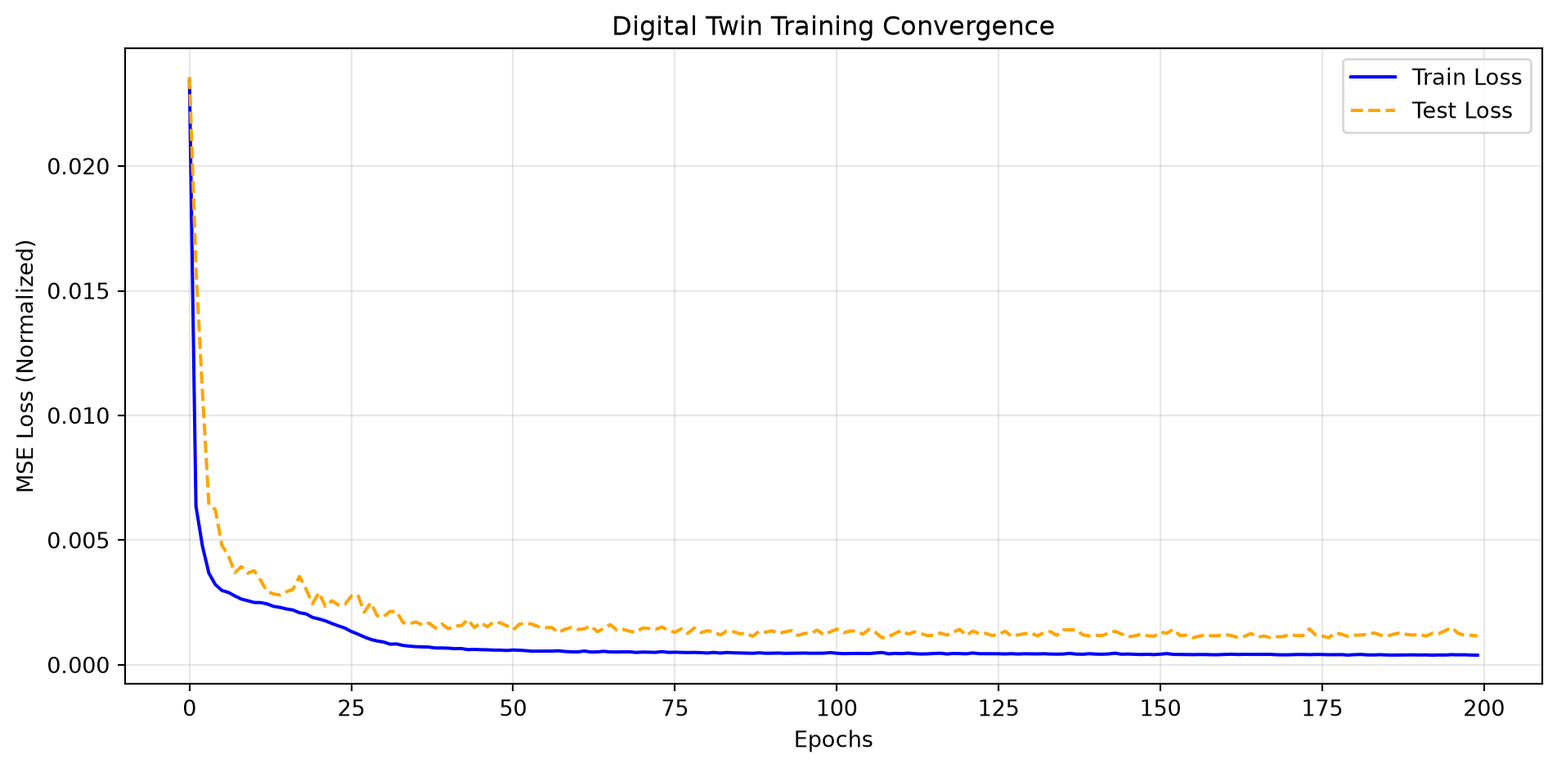
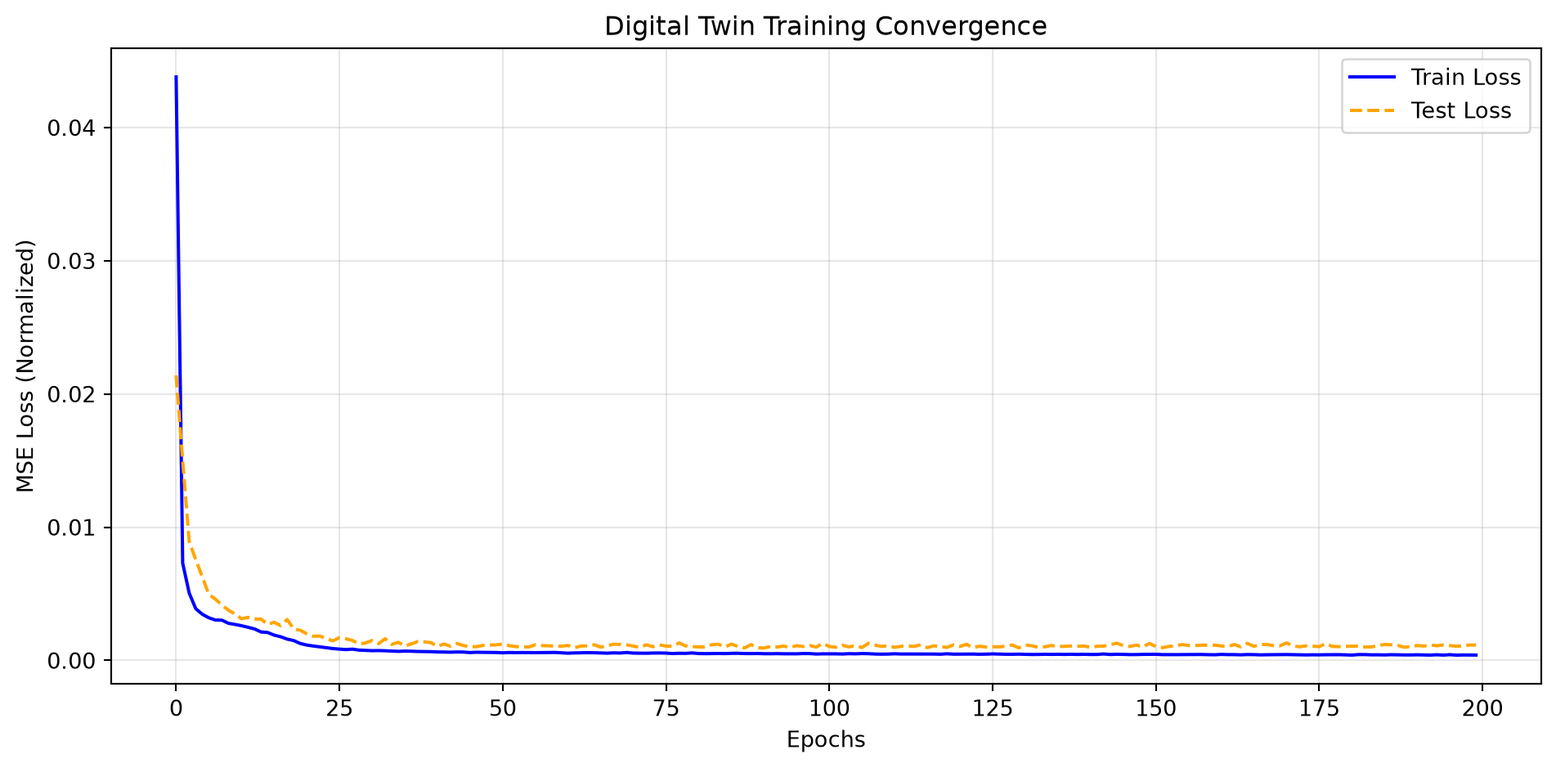
Built site for gh-pages

diff --git a/ai-ml/optitherm.html b/ai-ml/optitherm.html
@@ -492,7 +492,7 @@ os.environ['KAGGLE_KEY'] = "your_api_key"</code></pre>
 </div>
 </div>
 <hr>
-<div id="24c98e17" class="cell" data-execution_count="1">
+<div id="6e697c57" class="cell" data-execution_count="1">
 <div class="code-copy-outer-scaffold"><div class="sourceCode cell-code" id="cb2"><pre class="sourceCode python code-with-copy"><code class="sourceCode python"><span id="cb2-1"><a href="#cb2-1" aria-hidden="true" tabindex="-1"></a><span class="im">import</span> os</span>
 <span id="cb2-2"><a href="#cb2-2" aria-hidden="true" tabindex="-1"></a><span class="im">import</span> pandas <span class="im">as</span> pd</span>
 <span id="cb2-3"><a href="#cb2-3" aria-hidden="true" tabindex="-1"></a></span>
@@ -593,7 +593,7 @@ operable program or batch file.</code></pre>
 </section>
 <section id="stage-1-data-engineering-and-consolidation-1" class="level2">
 <h2 class="anchored" data-anchor-id="stage-1-data-engineering-and-consolidation-1">Stage 1: Data Engineering and Consolidation</h2>
-<div id="afdd6926" class="cell" data-execution_count="2">
+<div id="06afeb5b" class="cell" data-execution_count="2">
 <div class="code-copy-outer-scaffold"><div class="sourceCode cell-code" id="cb5"><pre class="sourceCode python code-with-copy"><code class="sourceCode python"><span id="cb5-1"><a href="#cb5-1" aria-hidden="true" tabindex="-1"></a><span class="co"># Parameters for the digital twin</span></span>
 <span id="cb5-2"><a href="#cb5-2" aria-hidden="true" tabindex="-1"></a>building_id <span class="op">=</span> <span class="st">"Panther_office_Graham"</span></span>
 <span id="cb5-3"><a href="#cb5-3" aria-hidden="true" tabindex="-1"></a>site_id <span class="op">=</span> <span class="st">"Panther"</span></span>
@@ -658,7 +658,7 @@ dtype: int64</code></pre>
 <section id="next-step" class="level4">
 <h4 class="anchored" data-anchor-id="next-step">Next Step</h4>
 <p>Before deciding whether to impute or discard these observations, a visual temporal analysis is required to identify the distribution and duration of the electricity meter outages.</p>
-<div id="8cdc79d6" class="cell" data-execution_count="3">
+<div id="199420d7" class="cell" data-execution_count="3">
 <div class="code-copy-outer-scaffold"><div class="sourceCode cell-code" id="cb7"><pre class="sourceCode python code-with-copy"><code class="sourceCode python"><span id="cb7-1"><a href="#cb7-1" aria-hidden="true" tabindex="-1"></a><span class="im">import</span> matplotlib.pyplot <span class="im">as</span> plt</span>
 <span id="cb7-2"><a href="#cb7-2" aria-hidden="true" tabindex="-1"></a></span>
 <span id="cb7-3"><a href="#cb7-3" aria-hidden="true" tabindex="-1"></a><span class="bu">print</span>(<span class="st">"1. Cleaning exogenous variables (weather data)..."</span>)</span>
@@ -714,7 +714,7 @@ dtype: int64
 <p>Interestingly, the prolonged sensor outage observed during the summer of 2017 was retained and used as a natural temporal boundary between the training and testing datasets. This approach avoids arbitrary data splitting strategies and ensures a realistic evaluation scenario, where the model is trained on past observations and tested on future unseen conditions.</p>
 <p><strong>Methodological justification:</strong></p>
 <p>The thermal dynamics of a building are learned from temporal sequences using recurrent neural networks (RNN/LSTM) with sliding windows. Therefore, preserving the chronological structure of the data is essential. By using the sensor outage as a natural separation point, the model evaluation better reflects a real-world deployment scenario, where future energy consumption must be predicted based solely on historical information.</p>
-<div id="b4e14318" class="cell" data-execution_count="4">
+<div id="e82dd812" class="cell" data-execution_count="4">
 <div class="code-copy-outer-scaffold"><div class="sourceCode cell-code" id="cb9"><pre class="sourceCode python code-with-copy"><code class="sourceCode python"><span id="cb9-1"><a href="#cb9-1" aria-hidden="true" tabindex="-1"></a><span class="bu">print</span>(<span class="st">"1. Removing the initial data gap (early 2016)..."</span>)</span>
 <span id="cb9-2"><a href="#cb9-2" aria-hidden="true" tabindex="-1"></a></span>
 <span id="cb9-3"><a href="#cb9-3" aria-hidden="true" tabindex="-1"></a><span class="co"># Remove the period with insufficient data coverage</span></span>
@@ -782,7 +782,7 @@ dtype: int64
 <p><strong><em>Why use both sine and cosine components?</em></strong></p>
 <p>Using only one trigonometric function introduces ambiguity due to symmetry. For example, if only the sine component is used, midnight (<span class="math inline">\(\sin(0)=0\)</span>) and noon (<span class="math inline">\(\sin(\pi)=0\)</span>) would receive the same value, preventing the model from distinguishing between day and night. By combining the cosine component (<span class="math inline">\(X\)</span>-axis) and sine component (<span class="math inline">\(Y\)</span>-axis), each timestamp is uniquely represented in a two-dimensional periodic space. Consequently, the Euclidean distance between 23:00 and 01:00 is correctly interpreted as small by the neural network.</p>
 <p>The following code adds these temporal coordinates to the dataset:</p>
-<div id="8c5b2d3d" class="cell" data-execution_count="5">
+<div id="503a5470" class="cell" data-execution_count="5">
 <div class="code-copy-outer-scaffold"><div class="sourceCode cell-code" id="cb11"><pre class="sourceCode python code-with-copy"><code class="sourceCode python"><span id="cb11-1"><a href="#cb11-1" aria-hidden="true" tabindex="-1"></a><span class="im">import</span> numpy <span class="im">as</span> np</span>
 <span id="cb11-2"><a href="#cb11-2" aria-hidden="true" tabindex="-1"></a><span class="im">import</span> matplotlib.pyplot <span class="im">as</span> plt</span>
 <span id="cb11-3"><a href="#cb11-3" aria-hidden="true" tabindex="-1"></a></span>
@@ -838,7 +838,7 @@ dtype: int64
 <p>This analysis provides valuable insights for feature selection before training the PyTorch model. Variables with limited predictive relevance may be removed to reduce noise and decrease the dimensionality of the input tensors. However, correlation alone does not fully capture the predictive value of a feature, especially in nonlinear time-dependent systems such as building thermal dynamics.</p>
 <p><strong>Code: Correlation Heatmap</strong></p>
 <p>The following visualization uses the <code>seaborn</code> library to generate a correlation heatmap, providing an overview of the relationships between the selected features and the energy consumption target.</p>
-<div id="ffda14dd" class="cell" data-execution_count="6">
+<div id="649fca9c" class="cell" data-execution_count="6">
 <div class="code-copy-outer-scaffold"><div class="sourceCode cell-code" id="cb13"><pre class="sourceCode python code-with-copy"><code class="sourceCode python"><span id="cb13-1"><a href="#cb13-1" aria-hidden="true" tabindex="-1"></a><span class="im">import</span> seaborn <span class="im">as</span> sns</span>
 <span id="cb13-2"><a href="#cb13-2" aria-hidden="true" tabindex="-1"></a><span class="im">import</span> matplotlib.pyplot <span class="im">as</span> plt</span>
 <span id="cb13-3"><a href="#cb13-3" aria-hidden="true" tabindex="-1"></a></span>
@@ -907,7 +907,7 @@ Generating the global Heatmap...</code></pre>
 <li><code>day_cos</code>: weekly temporal encoding component.</li>
 </ul>
 <p>The objective is to determine whether past values of these variables contain predictive information about future electricity consumption over a 24-hour horizon. This analysis helps identify delayed relationships that cannot be captured by a standard Pearson correlation computed at the same timestamp.</p>
-<div id="a6cd257f" class="cell" data-execution_count="7">
+<div id="bf91813d" class="cell" data-execution_count="7">
 <div class="code-copy-outer-scaffold"><div class="sourceCode cell-code" id="cb15"><pre class="sourceCode python code-with-copy"><code class="sourceCode python"><span id="cb15-1"><a href="#cb15-1" aria-hidden="true" tabindex="-1"></a><span class="im">import</span> pandas <span class="im">as</span> pd</span>
 <span id="cb15-2"><a href="#cb15-2" aria-hidden="true" tabindex="-1"></a><span class="im">import</span> matplotlib.pyplot <span class="im">as</span> plt</span>
 <span id="cb15-3"><a href="#cb15-3" aria-hidden="true" tabindex="-1"></a></span>
@@ -1055,7 +1055,7 @@ dtype: float64</code></pre>
 <p>To predict the energy consumption at time <span class="math inline">\(t\)</span>, the model receives the previous 24 hours of system information:</p>
 <p>[ [X_{t-24}, X_{t-23}, …, X_{t-1}] ]</p>
 <p>Any sequence containing missing target values is discarded to ensure that the model is trained only on physically consistent observations.</p>
-<div id="7106c8e7" class="cell" data-execution_count="8">
+<div id="9b34370b" class="cell" data-execution_count="8">
 <div class="code-copy-outer-scaffold"><div class="sourceCode cell-code" id="cb17"><pre class="sourceCode python code-with-copy"><code class="sourceCode python"><span id="cb17-1"><a href="#cb17-1" aria-hidden="true" tabindex="-1"></a><span class="im">import</span> numpy <span class="im">as</span> np</span>
 <span id="cb17-2"><a href="#cb17-2" aria-hidden="true" tabindex="-1"></a><span class="im">import</span> pandas <span class="im">as</span> pd</span>
 <span id="cb17-3"><a href="#cb17-3" aria-hidden="true" tabindex="-1"></a><span class="im">from</span> sklearn.preprocessing <span class="im">import</span> MinMaxScaler</span>
@@ -1188,7 +1188,7 @@ Testing X : (3824, 24, 11), y: (3824, 1)</code></pre>
 </ol>
 <p>The model parameters are optimized by minimizing the Mean Squared Error (MSE) loss, which is appropriate for this continuous regression problem. The Adam optimizer is selected due to its adaptive learning rate mechanism and its robustness for training deep neural networks.</p>
 <p>The following code implements the <code>ThermalLSTM</code> architecture and initializes the training configuration.</p>
-<div id="9dd354e7" class="cell" data-execution_count="9">
+<div id="0cdfaf10" class="cell" data-execution_count="9">
 <div class="code-copy-outer-scaffold"><div class="sourceCode cell-code" id="cb19"><pre class="sourceCode python code-with-copy"><code class="sourceCode python"><span id="cb19-1"><a href="#cb19-1" aria-hidden="true" tabindex="-1"></a><span class="im">import</span> torch</span>
 <span id="cb19-2"><a href="#cb19-2" aria-hidden="true" tabindex="-1"></a><span class="im">import</span> torch.nn <span class="im">as</span> nn</span>
 <span id="cb19-3"><a href="#cb19-3" aria-hidden="true" tabindex="-1"></a><span class="im">import</span> torch.optim <span class="im">as</span> optim</span>
@@ -1271,7 +1271,7 @@ ThermalLSTM(
 -&gt; Model ready for training.</code></pre>
 </div>
 </div>
-<div id="5624ec5d" class="cell" data-execution_count="10">
+<div id="87d61414" class="cell" data-execution_count="10">
 <div class="code-copy-outer-scaffold"><div class="sourceCode cell-code" id="cb21"><pre class="sourceCode python code-with-copy"><code class="sourceCode python"><span id="cb21-1"><a href="#cb21-1" aria-hidden="true" tabindex="-1"></a><span class="im">import</span> torch</span>
 <span id="cb21-2"><a href="#cb21-2" aria-hidden="true" tabindex="-1"></a><span class="im">from</span> torch.utils.data <span class="im">import</span> TensorDataset, DataLoader</span>
 <span id="cb21-3"><a href="#cb21-3" aria-hidden="true" tabindex="-1"></a></span>
@@ -1320,7 +1320,7 @@ Creating DataLoaders...
 <p>After each epoch, the model is evaluated on the future unseen dataset separated by the natural sensor outage boundary. This chronological evaluation provides a realistic measure of the model’s generalization capability.</p></li>
 </ol>
 <p>The evolution of the training and evaluation losses is stored throughout the optimization process to monitor convergence and detect potential overfitting.</p>
-<div id="a16f8967" class="cell" data-execution_count="11">
+<div id="e1471f8c" class="cell" data-execution_count="11">
 <div class="code-copy-outer-scaffold"><div class="sourceCode cell-code" id="cb23"><pre class="sourceCode python code-with-copy"><code class="sourceCode python"><span id="cb23-1"><a href="#cb23-1" aria-hidden="true" tabindex="-1"></a><span class="im">import</span> torch</span>
 <span id="cb23-2"><a href="#cb23-2" aria-hidden="true" tabindex="-1"></a></span>
 <span id="cb23-3"><a href="#cb23-3" aria-hidden="true" tabindex="-1"></a><span class="bu">print</span>(<span class="st">"Configuring the training loop..."</span>)</span>
@@ -1400,33 +1400,33 @@ Creating DataLoaders...
 <span id="cb23-77"><a href="#cb23-77" aria-hidden="true" tabindex="-1"></a><span class="bu">print</span>(<span class="ss">f"Best test MSE: </span><span class="sc">{</span>best_test_loss<span class="sc">:.6f}</span><span class="ss">"</span>)</span></code></pre></div><button title="Copy to Clipboard" class="code-copy-button"><i class="bi"></i></button></div>
 <div class="cell-output cell-output-stdout">
 <pre><code>Configuring the training loop...
-Epoch [  1/200] | Train Loss (MSE): 0.023406 | Test Loss (MSE): 0.023575
-Epoch [ 10/200] | Train Loss (MSE): 0.002571 | Test Loss (MSE): 0.003677
-Epoch [ 20/200] | Train Loss (MSE): 0.001903 | Test Loss (MSE): 0.002451
-Epoch [ 30/200] | Train Loss (MSE): 0.000955 | Test Loss (MSE): 0.001970
-Epoch [ 40/200] | Train Loss (MSE): 0.000676 | Test Loss (MSE): 0.001639
-Epoch [ 50/200] | Train Loss (MSE): 0.000575 | Test Loss (MSE): 0.001570
-Epoch [ 60/200] | Train Loss (MSE): 0.000522 | Test Loss (MSE): 0.001495
-Epoch [ 70/200] | Train Loss (MSE): 0.000495 | Test Loss (MSE): 0.001310
-Epoch [ 80/200] | Train Loss (MSE): 0.000488 | Test Loss (MSE): 0.001291
-Epoch [ 90/200] | Train Loss (MSE): 0.000463 | Test Loss (MSE): 0.001308
-Epoch [100/200] | Train Loss (MSE): 0.000488 | Test Loss (MSE): 0.001324
-Epoch [110/200] | Train Loss (MSE): 0.000458 | Test Loss (MSE): 0.001262
-Epoch [120/200] | Train Loss (MSE): 0.000450 | Test Loss (MSE): 0.001424
-Epoch [130/200] | Train Loss (MSE): 0.000443 | Test Loss (MSE): 0.001248
-Epoch [140/200] | Train Loss (MSE): 0.000445 | Test Loss (MSE): 0.001161
-Epoch [150/200] | Train Loss (MSE): 0.000410 | Test Loss (MSE): 0.001140
-Epoch [160/200] | Train Loss (MSE): 0.000405 | Test Loss (MSE): 0.001170
-Epoch [170/200] | Train Loss (MSE): 0.000400 | Test Loss (MSE): 0.001133
-Epoch [180/200] | Train Loss (MSE): 0.000390 | Test Loss (MSE): 0.001139
-Epoch [190/200] | Train Loss (MSE): 0.000400 | Test Loss (MSE): 0.001193
-Epoch [200/200] | Train Loss (MSE): 0.000387 | Test Loss (MSE): 0.001156
+Epoch [  1/200] | Train Loss (MSE): 0.043798 | Test Loss (MSE): 0.021399
+Epoch [ 10/200] | Train Loss (MSE): 0.002704 | Test Loss (MSE): 0.003495
+Epoch [ 20/200] | Train Loss (MSE): 0.001271 | Test Loss (MSE): 0.002268
+Epoch [ 30/200] | Train Loss (MSE): 0.000756 | Test Loss (MSE): 0.001313
+Epoch [ 40/200] | Train Loss (MSE): 0.000659 | Test Loss (MSE): 0.001339
+Epoch [ 50/200] | Train Loss (MSE): 0.000597 | Test Loss (MSE): 0.001170
+Epoch [ 60/200] | Train Loss (MSE): 0.000571 | Test Loss (MSE): 0.001070
+Epoch [ 70/200] | Train Loss (MSE): 0.000594 | Test Loss (MSE): 0.001168
+Epoch [ 80/200] | Train Loss (MSE): 0.000561 | Test Loss (MSE): 0.001038
+Epoch [ 90/200] | Train Loss (MSE): 0.000520 | Test Loss (MSE): 0.000949
+Epoch [100/200] | Train Loss (MSE): 0.000495 | Test Loss (MSE): 0.001285
+Epoch [110/200] | Train Loss (MSE): 0.000477 | Test Loss (MSE): 0.001093
+Epoch [120/200] | Train Loss (MSE): 0.000471 | Test Loss (MSE): 0.001158
+Epoch [130/200] | Train Loss (MSE): 0.000471 | Test Loss (MSE): 0.000946
+Epoch [140/200] | Train Loss (MSE): 0.000461 | Test Loss (MSE): 0.001084
+Epoch [150/200] | Train Loss (MSE): 0.000456 | Test Loss (MSE): 0.001270
+Epoch [160/200] | Train Loss (MSE): 0.000425 | Test Loss (MSE): 0.001145
+Epoch [170/200] | Train Loss (MSE): 0.000440 | Test Loss (MSE): 0.001097
+Epoch [180/200] | Train Loss (MSE): 0.000420 | Test Loss (MSE): 0.001055
+Epoch [190/200] | Train Loss (MSE): 0.000412 | Test Loss (MSE): 0.001043
+Epoch [200/200] | Train Loss (MSE): 0.000403 | Test Loss (MSE): 0.001157
 
 --- Training completed successfully! ---
-Best test MSE: 0.001083</code></pre>
+Best test MSE: 0.000930</code></pre>
 </div>
 </div>
-<div id="d295c67a" class="cell" data-execution_count="12">
+<div id="3e9eaa78" class="cell" data-execution_count="12">
 <div class="code-copy-outer-scaffold"><div class="sourceCode cell-code" id="cb25"><pre class="sourceCode python code-with-copy"><code class="sourceCode python"><span id="cb25-1"><a href="#cb25-1" aria-hidden="true" tabindex="-1"></a><span class="im">import</span> matplotlib.dates <span class="im">as</span> mdates</span>
 <span id="cb25-2"><a href="#cb25-2" aria-hidden="true" tabindex="-1"></a><span class="im">import</span> matplotlib.pyplot <span class="im">as</span> plt</span>
 <span id="cb25-3"><a href="#cb25-3" aria-hidden="true" tabindex="-1"></a></span>
@@ -1482,7 +1482,7 @@ Best test MSE: 0.001083</code></pre>
 </div>
 </div>
 </div>
-<div id="322f6445" class="cell" data-execution_count="13">
+<div id="522063c7" class="cell" data-execution_count="13">
 <div class="code-copy-outer-scaffold"><div class="sourceCode cell-code" id="cb27"><pre class="sourceCode python code-with-copy"><code class="sourceCode python"><span id="cb27-1"><a href="#cb27-1" aria-hidden="true" tabindex="-1"></a>plt.figure(figsize<span class="op">=</span>(<span class="dv">10</span>, <span class="dv">5</span>))</span>
 <span id="cb27-2"><a href="#cb27-2" aria-hidden="true" tabindex="-1"></a>plt.plot(train_losses, label<span class="op">=</span><span class="st">"Train Loss"</span>, color<span class="op">=</span><span class="st">'blue'</span>)</span>
 <span id="cb27-3"><a href="#cb27-3" aria-hidden="true" tabindex="-1"></a>plt.plot(test_losses, label<span class="op">=</span><span class="st">"Test Loss"</span>, color<span class="op">=</span><span class="st">'orange'</span>, linestyle<span class="op">=</span><span class="st">'--'</span>)</span>
@@ -1501,7 +1501,7 @@ Best test MSE: 0.001083</code></pre>
 </div>
 </div>
 </div>
-<div id="b3c4a1c6" class="cell" data-execution_count="14">
+<div id="621c3ac0" class="cell" data-execution_count="14">
 <div class="code-copy-outer-scaffold"><div class="sourceCode cell-code" id="cb28"><pre class="sourceCode python code-with-copy"><code class="sourceCode python"><span id="cb28-1"><a href="#cb28-1" aria-hidden="true" tabindex="-1"></a>plt.figure(figsize<span class="op">=</span>(<span class="dv">6</span>, <span class="dv">6</span>))</span>
 <span id="cb28-2"><a href="#cb28-2" aria-hidden="true" tabindex="-1"></a>plt.scatter(actuals_rescaled, predictions_rescaled, alpha<span class="op">=</span><span class="fl">0.3</span>, color<span class="op">=</span><span class="st">'purple'</span>, s<span class="op">=</span><span class="dv">10</span>, label<span class="op">=</span><span class="st">"Predictions"</span>)</span>
 <span id="cb28-3"><a href="#cb28-3" aria-hidden="true" tabindex="-1"></a></span>

diff --git a/about.html b/about.html
@@ -7,7 +7,7 @@
 <meta name="viewport" content="width=device-width, initial-scale=1.0, user-scalable=yes">
 
 
-<title>About – Ismaël Tchinda Ngueyong | Portfolio</title>
+<title>About Me – Ismaël Tchinda Ngueyong | Portfolio</title>
 <style>
 /* Default styles provided by pandoc.
 ** See https://pandoc.org/MANUAL.html#variables-for-html for config info.
@@ -289,8 +289,17 @@ ul.task-list li input[type="checkbox"] {
 <div id="quarto-content" class="quarto-container page-columns page-rows-contents page-layout-article page-navbar">
 <!-- sidebar -->
 <!-- margin-sidebar -->
-    <div id="quarto-margin-sidebar" class="sidebar margin-sidebar zindex-bottom">
-        
+    <div id="quarto-margin-sidebar" class="sidebar margin-sidebar">
+        <nav id="TOC" role="doc-toc" class="toc-active">
+    <h2 id="toc-title">On this page</h2>
+   
+  <ul>
+  <li><a href="#hi-im-ismaël-tchinda-ngueyong" id="toc-hi-im-ismaël-tchinda-ngueyong" class="nav-link active" data-scroll-target="#hi-im-ismaël-tchinda-ngueyong">Hi, I’m Ismaël Tchinda Ngueyong</a></li>
+  <li><a href="#bridging-theory-and-production" id="toc-bridging-theory-and-production" class="nav-link" data-scroll-target="#bridging-theory-and-production">Bridging Theory and Production</a></li>
+  <li><a href="#my-engineering-toolkit" id="toc-my-engineering-toolkit" class="nav-link" data-scroll-target="#my-engineering-toolkit">My Engineering Toolkit</a></li>
+  <li><a href="#beyond-the-code" id="toc-beyond-the-code" class="nav-link" data-scroll-target="#beyond-the-code">Beyond the Code</a></li>
+  </ul>
+</nav>
     </div>
 <!-- main -->
 <main class="content" id="quarto-document-content">
@@ -298,7 +307,7 @@ ul.task-list li input[type="checkbox"] {
 
 <header id="title-block-header" class="quarto-title-block default">
 <div class="quarto-title">
-<h1 class="title">About</h1>
+<h1 class="title">About Me</h1>
 </div>
 
 
@@ -315,9 +324,31 @@ ul.task-list li input[type="checkbox"] {
 </header>
 
 
-<p>About this site</p>
+<section id="hi-im-ismaël-tchinda-ngueyong" class="level3">
+<h3 class="anchored" data-anchor-id="hi-im-ismaël-tchinda-ngueyong">Hi, I’m Ismaël Tchinda Ngueyong</h3>
+<p>I am an applied mathematician and R&amp;D engineer who specializes in translating complex physical phenomena into high-performance, data-driven software. I build systems that live at the intersection of rigorous mathematical theory, scientific computing, and modern artificial intelligence.</p>
+</section>
+<section id="bridging-theory-and-production" class="level3">
+<h3 class="anchored" data-anchor-id="bridging-theory-and-production">Bridging Theory and Production</h3>
+<p>My foundational background is rooted in physics, with early graduate studies at the African Institute for Mathematical Sciences (AIMS) and Université Paris-Saclay. I transitioned into numerical analysis, culminating in a Ph.D.&nbsp;and a postdoctoral fellowship in mathematical modeling at Université Laval.</p>
+<p>While I love the rigor of academic research, my true passion lies in building practical, scalable tools for industry. I continuously expand my toolkit to solve dynamic business and engineering challenges, integrating formal coursework in data processing and financial engineering at ÉTS Montréal into my modeling workflows.</p>
+</section>
+<section id="my-engineering-toolkit" class="level3">
+<h3 class="anchored" data-anchor-id="my-engineering-toolkit">My Engineering Toolkit</h3>
+<p>I approach software architecture with an underlying focus on calculus, optimization, and linear algebra. My core technical domains include:</p>
+<ul>
+<li><strong>High-Performance Scientific Computing:</strong> Designing custom, scalable C++ libraries (like <code>CFEM++</code>) for multiphysics finite element simulations, leveraging tools like PETSc and OpenMP.</li>
+<li><strong>Algorithm &amp; Software Development:</strong> Engineering open-source numerical solvers, such as the <code>PyOdys</code> Python package for ordinary differential equations.</li>
+<li><strong>Hybrid AI Systems:</strong> Combining classical computational fluid dynamics (including CutFEM and level-set methods) with Deep Learning frameworks like PyTorch to construct predictive models, digital twins, and custom machine learning engines from scratch.</li>
+</ul>
+</section>
+<section id="beyond-the-code" class="level3">
+<h3 class="anchored" data-anchor-id="beyond-the-code">Beyond the Code</h3>
+<p>Writing clean C++ or optimizing a neural network backpropagation algorithm is only half the job; the other half is communication. Through my experience lecturing at institutions like Cégep de La Pocatière and Collège du Soleil, and acting as a technical consultant, I have honed the ability to break down highly dense mathematical concepts into clear, actionable insights for diverse teams. I am fully bilingual, collaborating seamlessly in both French and English.</p>
+<hr>
 
 
+</section>
 
 </main> <!-- /main -->
 <script id="quarto-html-after-body" type="application/javascript">

diff --git a/cv.html b/cv.html
@@ -6,7 +6,6 @@
 
 <meta name="viewport" content="width=device-width, initial-scale=1.0, user-scalable=yes">
 
-<meta name="description" content="Ph.D.&nbsp;in Applied Mathematics | AI &amp; Scientific Computing Developer">
 
 <title>Curriculum Vitae – Ismaël Tchinda Ngueyong | Portfolio</title>
 <style>
@@ -300,11 +299,6 @@ ul.task-list li input[type="checkbox"] {
 <h1 class="title">Curriculum Vitae</h1>
 </div>
 
-<div>
-  <div class="description">
-    Ph.D.&nbsp;in Applied Mathematics | AI &amp; Scientific Computing Developer
-  </div>
-</div>
 
 
 <div class="quarto-title-meta">
@@ -330,7 +324,7 @@ Ismaël Tchinda Ngueyong, Ph.D.
 Québec, QC, Canada
 </p>
 <p>
-<a href="https://https://scholar.google.com/citations?user=0BtIIxcAAAAJ" target="_blank"><strong>Google Scholar Publications</strong></a> | <a href="https://github.com/itchinda" target="_blank"><strong>GitHub Portfolio</strong></a>
+<a href="https://https://scholar.google.com/citations?user=0BtIIxcAAAAJ" target="_blank"><strong>Google Scholar Publications</strong></a> | <a href="https://github.com/itchinda" target="_blank"><strong>GitHub Portfolio</strong></a> | <a href="https://www.linkedin.com/in/itchinda" target="_blank"><strong>LinkedIn</strong></a>
 </p>
 </div>
 <section id="professional-summary" class="level2">

diff --git a/index.html b/index.html
@@ -6,7 +6,7 @@
 
 <meta name="viewport" content="width=device-width, initial-scale=1.0, user-scalable=yes">
 
-<meta name="description" content="Applied Mathematician &amp; Scientific Computing Developer">
+<meta name="description" content="Ph.D.&nbsp;in Applied Mathematics | AI &amp; Scientific Computing Developer">
 
 <title>Ismaël Tchinda Ngueyong, Ph.D.&nbsp;– Ismaël Tchinda Ngueyong | Portfolio</title>
 <style>
@@ -309,7 +309,7 @@ ul.task-list li input[type="checkbox"] {
 </div>
 <div>
   <div class="description">
-    Applied Mathematician &amp; Scientific Computing Developer
+    Ph.D.&nbsp;in Applied Mathematics | AI &amp; Scientific Computing Developer
   </div>
 </div>
 <div class="quarto-title-meta">
@@ -322,6 +322,10 @@ ul.task-list li input[type="checkbox"] {
   <a href="https://scholar.google.com/citations?user=0BtIIxcAAAAJ" class="about-link" rel="" target="">
     <i class="bi bi-mortarboard-fill"></i>
      <span class="about-link-text">Google Scholar</span>
+  </a>
+  <a href="https://www.linkedin.com/in/itchinda" class="about-link" rel="" target="">
+    <i class="bi bi-linkedin"></i>
+     <span class="about-link-text">LinkedIn</span>
   </a>
 </div>
       <div class="about-contents"><main class="content" id="quarto-document-content">
